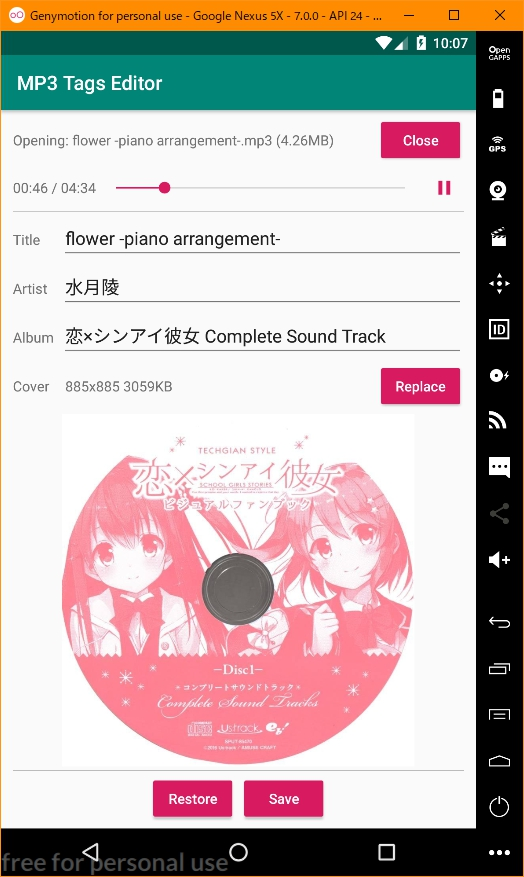
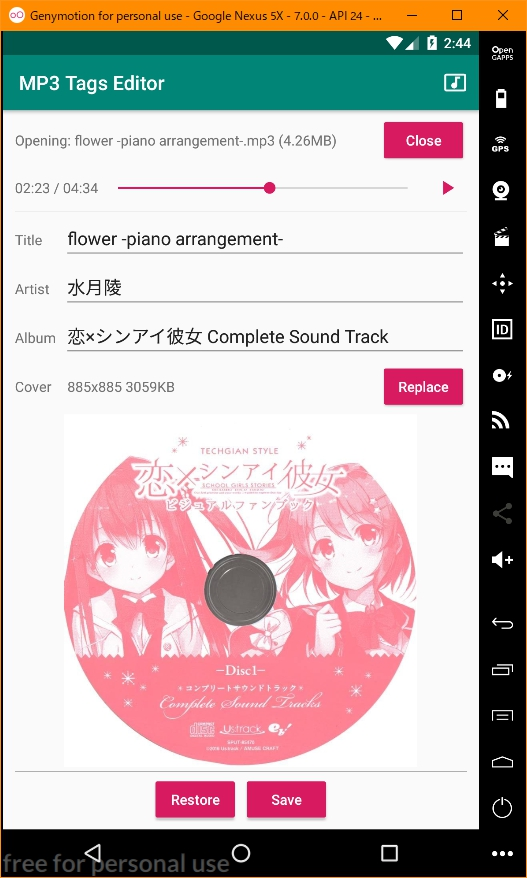
feat(crop): add cropActivity

diff --git a/app/src/main/java/com/aoihosizora/mp3tagseditor/ui/view/MainActivity.kt b/app/src/main/java/com/aoihosizora/mp3tagseditor/ui/view/MainActivity.kt
@@ -75,6 +75,7 @@ class MainActivity : AppCompatActivity(), IContextHelper, MainActivityContract.V
         btn_switch.setOnClickListener(onBtnSwitchClicked)
         seekbar.setOnSeekBarChangeListener(onSeekBarChange)
 
+        btn_crop_cover.setOnClickListener(onBtnCropCoverClicked)
         btn_cover.setOnClickListener(onBtnCoverClicked)
         btn_save.setOnClickListener(onBtnSaveClicked)
         btn_restore.setOnClickListener(onBtnRestoreClicked)
@@ -181,9 +182,11 @@ class MainActivity : AppCompatActivity(), IContextHelper, MainActivityContract.V
     override fun loadCover(cover: Bitmap?) {
         if (cover != null) {
             iv_cover.setImageBitmap(cover)
+            btn_crop_cover.isEnabled = true
             txt_cover_size.text = "${cover.width}x${cover.height} ${cover.allocationByteCount / 1024}KB"
         } else {
             iv_cover.setImageResource(R.color.white)
+            btn_crop_cover.isEnabled = false
             txt_cover_size.text = "Blank"
         }
     }
@@ -195,6 +198,17 @@ class MainActivity : AppCompatActivity(), IContextHelper, MainActivityContract.V
         RxActivityResult.on(this).startIntent(intent).subscribe { r ->
             if (r.resultCode() == Activity.RESULT_OK) {
                 r.data().data?.let { iv_cover.setImageURI(it) }
+            }
+        }
+    }
+
+    private val onBtnCropCoverClicked: (View) -> Unit = {
+        val intent = Intent(this, CropActivity::class.java)
+        CoverUtil.putImageToExtra(intent, CropActivity.INTENT_BITMAP, CoverUtil.getBitmapFromImageView(iv_cover))
+        RxActivityResult.on(this).startIntent(intent).subscribe { r ->
+            if (r.resultCode() == Activity.RESULT_OK) {
+                val bm = CoverUtil.getImageFromExtra(r.data(), CropActivity.INTENT_BITMAP)
+                loadCover(bm)
             }
         }
     }

diff --git a/app/src/main/java/com/aoihosizora/mp3tagseditor/ui/view/CropActivity.kt b/app/src/main/java/com/aoihosizora/mp3tagseditor/ui/view/CropActivity.kt
@@ -1,0 +1,55 @@
+package com.aoihosizora.mp3tagseditor.ui.view
+
+import android.app.Activity
+import android.content.Intent
+import android.os.Bundle
+import android.support.v7.app.AppCompatActivity
+import android.view.MenuItem
+import com.aoihosizora.mp3tagseditor.R
+import com.aoihosizora.mp3tagseditor.ui.IContextHelper
+import com.aoihosizora.mp3tagseditor.util.CoverUtil
+import kotlinx.android.synthetic.main.activity_crop.*
+
+
+class CropActivity : AppCompatActivity(), IContextHelper {
+
+    companion object {
+        const val INTENT_BITMAP = "INTENT_BITMAP"
+    }
+
+    override fun onCreate(savedInstanceState: Bundle?) {
+        super.onCreate(savedInstanceState)
+        setContentView(R.layout.activity_crop)
+        supportActionBar?.hide()
+        toolbar.inflateMenu(R.menu.activity_crop_menu)
+
+        initView()
+    }
+
+    private fun initView() {
+        val bm = CoverUtil.getImageFromExtra(intent, INTENT_BITMAP)
+        if (bm == null) {
+            finish()
+        }
+        iv_crop.setImageBitmap(bm!!)
+        toolbar.setOnMenuItemClickListener { onOptionsItemSelected(it) }
+    }
+
+    override fun onOptionsItemSelected(item: MenuItem?): Boolean {
+        if (item == null) {
+            return false
+        }
+        when (item.itemId) {
+            android.R.id.home -> onBackPressed()
+            R.id.menu_crop -> onMenuCropSelected()
+        }
+        return true
+    }
+
+    private val onMenuCropSelected: () -> Unit = {
+        val intent = Intent()
+        CoverUtil.putImageToExtra(intent, INTENT_BITMAP, iv_crop.croppedImage)
+        setResult(Activity.RESULT_OK, intent)
+        finish()
+    }
+}

diff --git a/app/src/main/java/com/aoihosizora/mp3tagseditor/util/CoverUtil.kt b/app/src/main/java/com/aoihosizora/mp3tagseditor/util/CoverUtil.kt
@@ -1,5 +1,6 @@
 package com.aoihosizora.mp3tagseditor.util
 
+import android.content.Intent
 import android.graphics.Bitmap
 import android.graphics.BitmapFactory
 import android.graphics.drawable.BitmapDrawable
@@ -20,5 +21,14 @@ object CoverUtil {
         val stream = ByteArrayOutputStream()
         bm.compress(Bitmap.CompressFormat.JPEG, 100, stream)
         return stream.toByteArray()
+    }
+
+    fun putImageToExtra(intent: Intent, name: String, bm: Bitmap) {
+        intent.putExtra(name, getJpegByteArrayFromBitmap(bm))
+    }
+
+    fun getImageFromExtra(intent: Intent, name: String): Bitmap? {
+        val arr = intent.getByteArrayExtra(name)
+        return getBitmapFromByteArray(arr)
     }
 }

diff --git a/app/src/main/java/com/aoihosizora/mp3tagseditor/util/PathUtil.kt b/app/src/main/java/com/aoihosizora/mp3tagseditor/util/PathUtil.kt
@@ -65,14 +65,11 @@ object PathUtil {
         val cursor = context.contentResolver.query(uri, arrayOf(column), selection, selectionArgs, null)
         if (cursor != null) {
             if (cursor.moveToFirst()) {
-                try {
+                return try {
                     val idx = cursor.getColumnIndexOrThrow(column)
-                    if (idx > -1) {
-                        return cursor.getString(idx)
-                    }
+                    cursor.getString(idx)
                 } catch (ex: Exception) {
-                    ex.printStackTrace()
-                    return ""
+                    ""
                 }
             }
             cursor.close()

diff --git a/README.md b/README.md
@@ -8,8 +8,7 @@
 + [x] Load and write cover(jpg)
 + [ ] Support other tags
 + [x] Convert video to mp3
-+ [ ] Edit and save cover
-+ [ ] Cut music
++ [ ] Crop and save cover
 
 ### Environments
 
@@ -22,9 +21,11 @@
 + [mp3agic](https://github.com/mpatric/mp3agic)
 + [MobileFFmpeg](https://github.com/tanersener/mobile-ffmpeg)
 
-### Screenshot
- 
+### Screenshots
+
 ![Screenshot](./assets/Screenshot.jpg)
+
+![Screenshot2](./assets/Screenshot2.jpg)
 
 ### References
 
